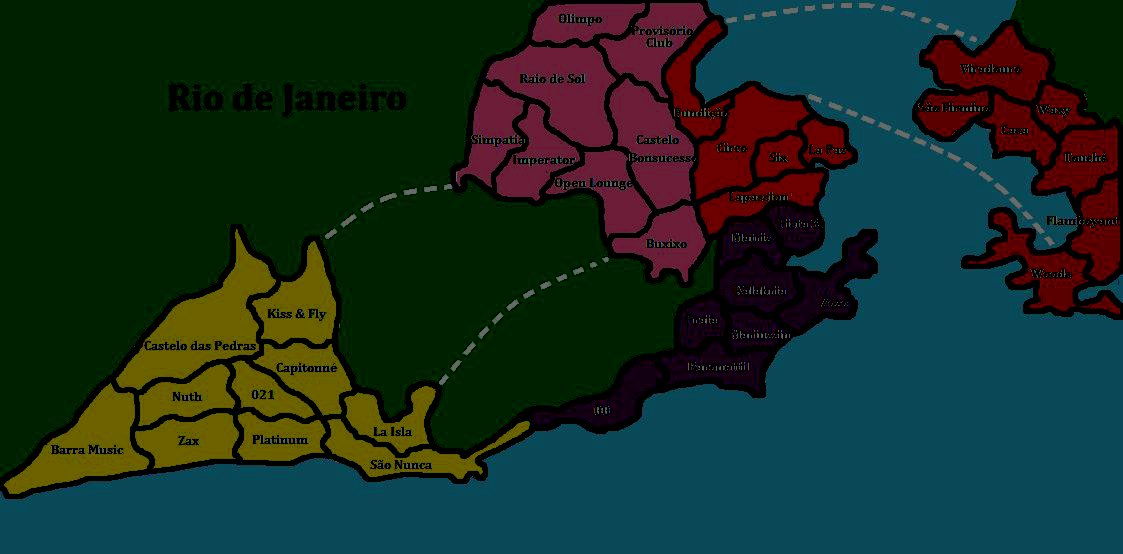
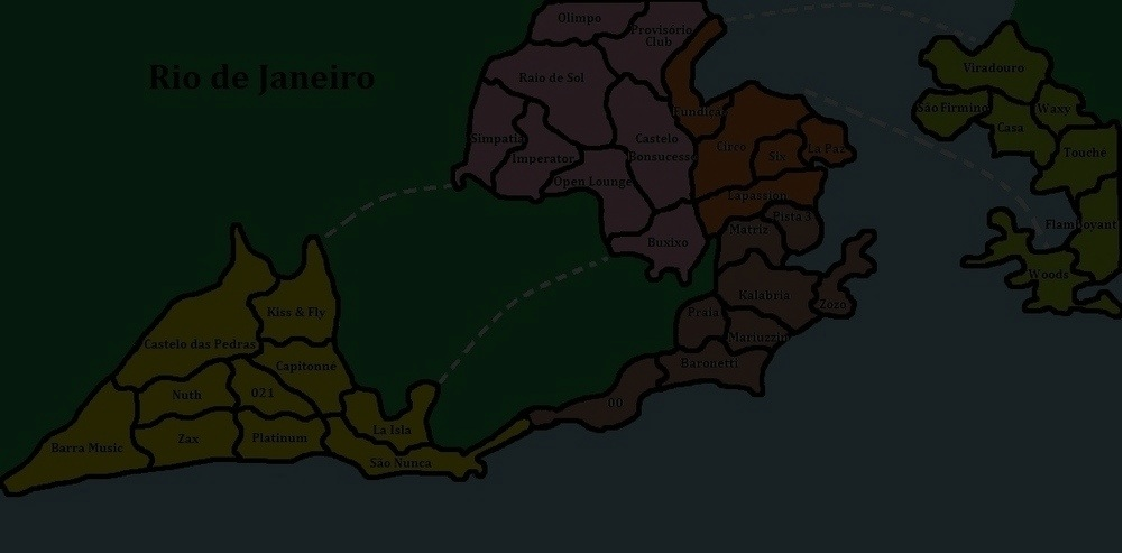
Mudança no mapa de fundo para adaptar ao mapa atual.

diff --git a/BatalhaDoPassinho/src/br/uff/tcc/bcc/esii/visao/telas/TelaInicial.java b/BatalhaDoPassinho/src/br/uff/tcc/bcc/esii/visao/telas/TelaInicial.java
@@ -29,7 +29,9 @@ public class TelaInicial implements ITela {
         Button botaoNovoJogo = FabricaDeBotoes.criaBotaoComImagem("Novo_Jogo", "", new EventoTelaCarregar(), image);
         botaoNovoJogo.setStyle("-fx-background-color: transparent");
         
-        Button botaoOpcoes = FabricaDeBotoes.criaBotao("Carrega_Partida", "Carrega", new EventoCarregaJogo());
+        Image imageCarrega = new Image("file:media/imagens/botoes/BTCARREGAR.png",100,100,true,true);
+        Button botaoCarrega = FabricaDeBotoes.criaBotaoComImagem("Carrega_Partida", "", new EventoCarregaJogo(),imageCarrega);
+        botaoCarrega.setStyle("-fx-background-color: transparent");
         
         Image imageRegras = new Image("file:media/imagens/botoes/BTREGRAS.png",100,100,true,true);
         Button botaoRegras = FabricaDeBotoes.criaBotaoComImagem("Botao_Regras", "", new EventoOpcoes(), imageRegras);
@@ -47,7 +49,7 @@ public class TelaInicial implements ITela {
 		
         grid.add(botaoNovoJogo, 2, 1);
         grid.add(botaoRegras, 2, 2);
-        grid.add(botaoOpcoes,2, 3);
+        grid.add(botaoCarrega,2, 3);
         grid.add(botaoSair,2, 4);
         
 		return new Scene(grid, 800, 600);
